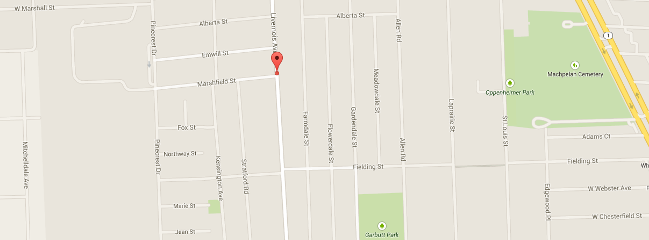
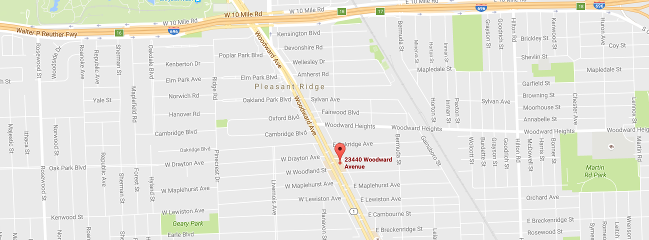
Partially edits to contact info

diff --git a/_includes/footer.html b/_includes/footer.html
@@ -18,19 +18,18 @@
   </ul>
   </div>
   <div class="location captioned">
-    <a class="map" href="https://www.google.com/maps/place/703+Livernois+Ave,+Ferndale,+MI+48220/" target="_blank">
+    <a class="map" href="https://www.google.com/maps/place/23440+Woodward+Ave,+Ferndale,+MI+48220/" target="_blank">
       View on Google Maps
     </a>
     <div class="caption"><div class="inner">
       <address class="inline-block" itemprop="address" itemscope itemtype="http://schema.org/PostalAddress">
         <span>FIDO Personal Dog Training, LLC</span><br>
-        <span itemprop="streetAddress">703 Livernois Ave</span><br>
+        <span itemprop="streetAddress">23440 Woodward Ave</span><br>
         <span itemprop="addressLocality">Ferndale</span>, <span itemprop="addressRegion">MI</span> 
          <span itemprop="postalCode">48220</span>
       </address>
       <div class="inline-block smaller">
-        <strong>Tammy</strong>: <a href="tel:+13132046154" itemprop="telephone">(313) 204-6154</a><br>
-        <strong>Sarah</strong>: <a href="tel:+12488545540" itemprop="telephone">(248) 854-5540</a><br>
+        <strong>Phone</strong>: <a href="tel:+12486079350" itemprop="telephone">(248) 607-9350</a><br>
         <strong>Fax</strong>: <a href="fax:+12483988600" itemprop="faxNumber">(248) 398-8600</a><br>
         <a href="mailto:fidofetch@sbcglobal.net" itemprop="email">fidofetch@sbcglobal.net</a>
       </div>

diff --git a/_includes/contact.html b/_includes/contact.html
@@ -1,6 +1,6 @@
 <section class="region region-contact highlight"><div class="inner">
   <h2>Get in touch</h2>
   <p>We're available by phone and email to answer your questions</p>
-  <a class="button icon tel" itemprop="telephone" href="tel:+13132046154">(313) 204-6154</a>
+  <a class="button icon tel" itemprop="telephone" href="tel:+12486079350">(248) 607-9350</a>
   <a class="button icon email" itemprop="email" href="mailto:fidofetch@sbcglobal.net">fidofetch@sbcglobal.net</a>
 </div></section>

diff --git a/_includes/header.html b/_includes/header.html
@@ -5,7 +5,7 @@
     </h1>
   </a>
   <div class="actions">
-    <a class="button icon tel" itemprop="telephone" href="tel:+13132046154">(313) 204-6154</a>
+    <a class="button icon tel" itemprop="telephone" href="tel:+12486079350">(248) 607-9350</a>
     <a class="button icon email" itemprop="email" href="mailto:{{ site.email }}">{{ site.email }}</a>
   </div>
 </div></header>
